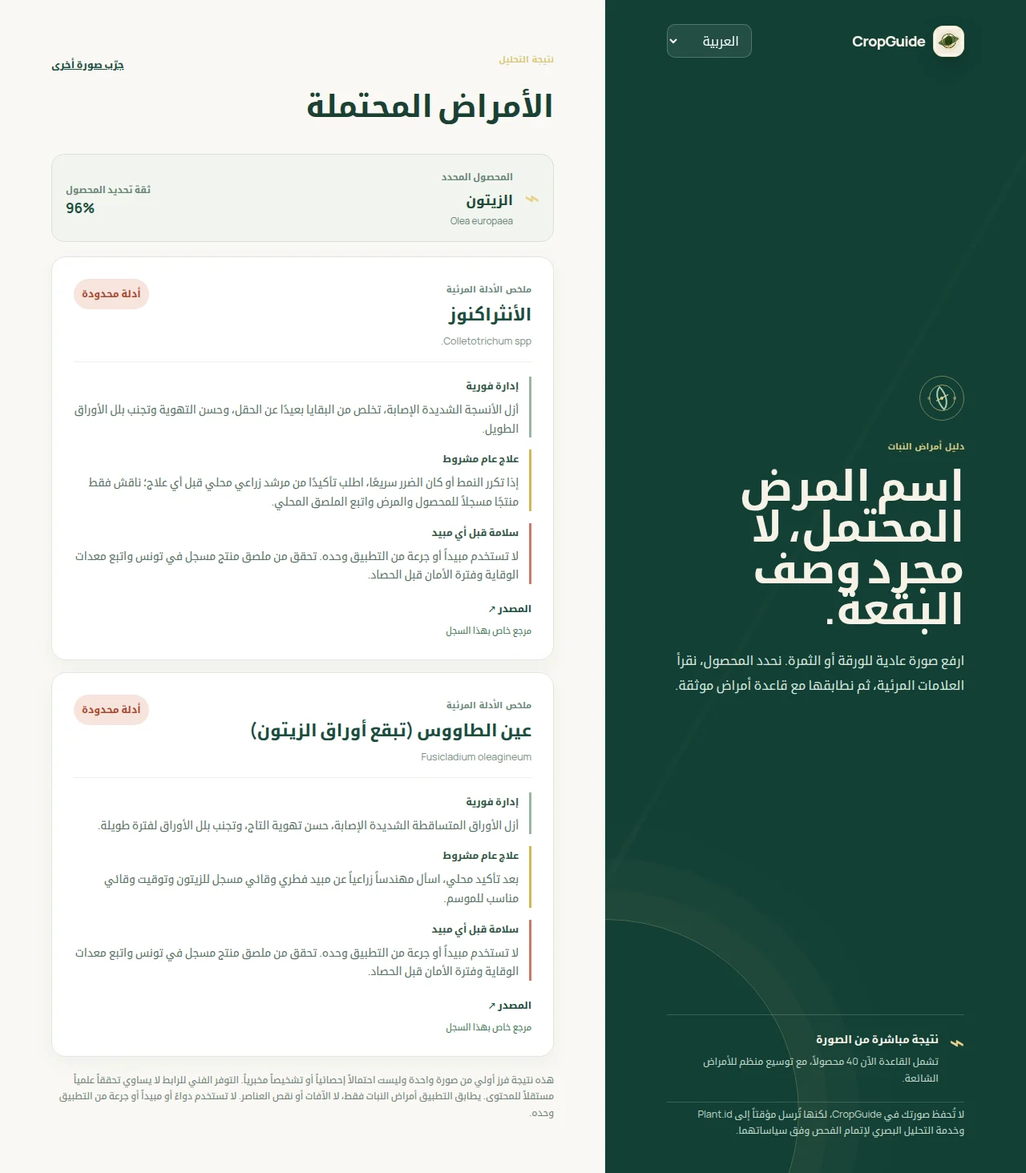
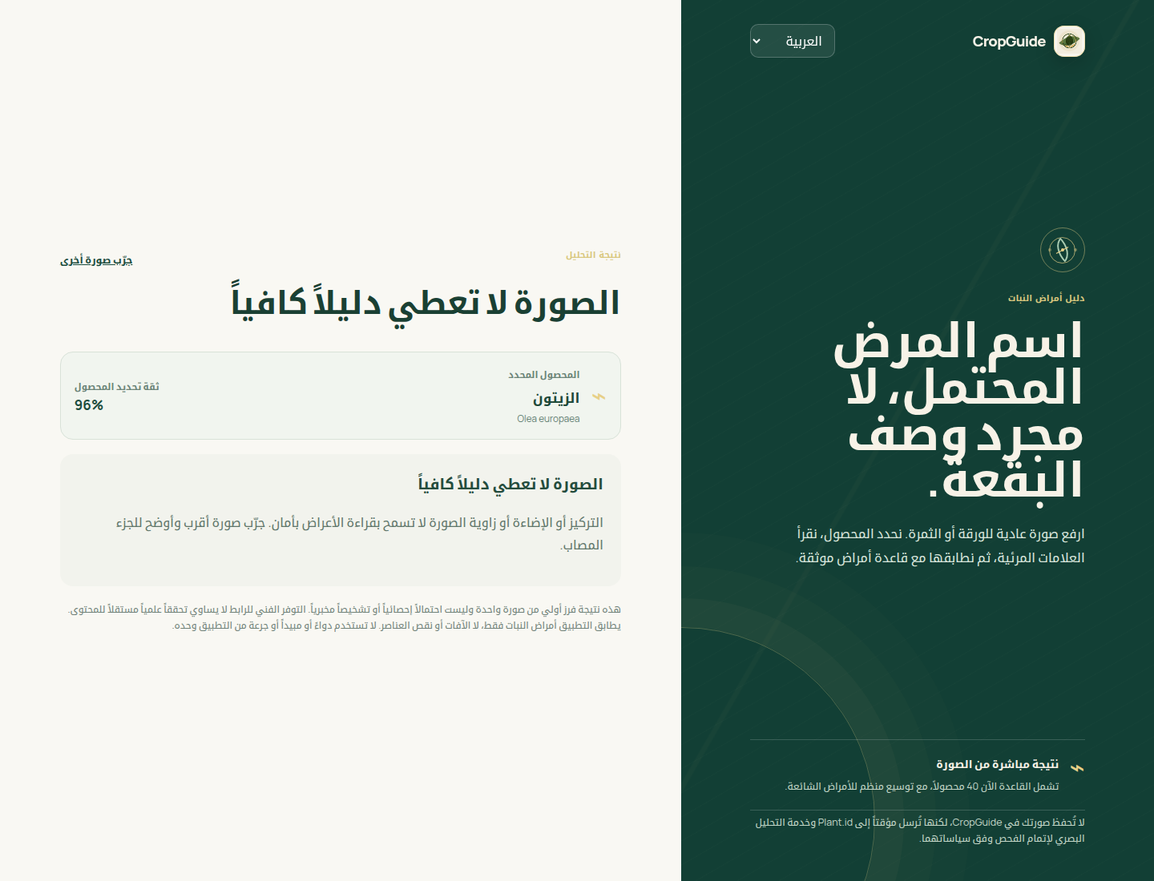
Release 0.6

diff --git a/client/src/App.jsx b/client/src/App.jsx
@@ -11,7 +11,7 @@ const copy = {
     likely: "ملخص الأدلة المرئية", evidenceBands: { strong: "أدلة متماسكة", medium: "أدلة جزئية", limited: "أدلة محدودة" }, immediate: "إدارة فورية", conditional: "علاج عام مشروط", safety: "سلامة قبل أي مبيد",
     source: "المصدر", sourceSpecific: "مرجع خاص بهذا السجل", sourceGroup: "مرجع لمجموعة المحصول، وليس مرجعاً خاصاً بهذا السجل", disclaimer: "هذه نتيجة فرز أولي من صورة واحدة وليست احتمالاً إحصائياً أو تشخيصاً مخبرياً. التوفر الفني للرابط لا يساوي تحققاً علمياً مستقلاً للمحتوى. يطابق التطبيق أمراض النبات فقط، لا الآفات أو نقص العناصر. لا تستخدم دواءً أو مبيداً أو جرعة من التطبيق وحده.",
     none: "لم نجد تطابقاً كافياً مع الأمراض المدعومة لهذه الصورة.", noneLead: "الصورة قد لا تُظهر علامة مميزة كفاية. جرّب ورقة أو ثمرة مصابة بوضوح أكبر.",
-    unsupported: "المحصول غير مدعوم حالياً", unsupportedLead: "يدعم CropGuide حالياً 40 محصولاً. حاول صورة أوضح للمحصول نفسه.", cropUncertain: "تعذر تحديد المحصول بأمان", cropUncertainLead: "اقتراحات المحصول متقاربة أو ضعيفة، لذلك لم نرتب الأمراض. التقط صورة أوضح للنبات أو للورقة مع جزء من الساق.",
+    unsupported: "المحصول غير مدعوم حالياً", unsupportedLead: "يدعم CropGuide حالياً 40 محصولاً. حاول صورة أوضح للمحصول نفسه.", cropUncertain: "تعذر تحديد المحصول بأمان", cropUncertainLead: "اقتراحات المحصول متقاربة أو ضعيفة، لذلك لم نرتب الأمراض. التقط صورة أوضح للنبات أو للورقة مع جزء من الساق.", imageInvalid: "الصورة لا تصلح للفحص الآمن", imageInvalidLead: "لم تظهر ورقة أو ثمرة واحدة بأعراض واضحة. استخدم صورة لنبات واحد فقط، بلا عناصر غير مرتبطة.", noClearSymptoms: "لا تظهر أعراض واضحة", noClearSymptomsLead: "قد تبدو الورقة سليمة أو لا تحمل علامة مرئية كافية. لا نرتب الأمراض في هذه الحالة.", imageLimited: "الصورة لا تعطي دليلاً كافياً", imageLimitedLead: "التركيز أو الإضاءة أو زاوية الصورة لا تسمح بقراءة الأعراض بأمان. جرّب صورة أقرب وأوضح للجزء المصاب.",
     retry: "جرّب صورة أخرى", error: "تعذر إكمال التحليل", cropConfidence: "ثقة تحديد المحصول", stepCrop: "تحديد المحصول", stepSymptoms: "قراءة العلامات", stepMatch: "مطابقة المرض",
     quality: "جودة الصورة", adequate: "مناسبة", limited: "محدودة", evidence: "الدليل المرئي",
   },
@@ -25,7 +25,7 @@ const copy = {
     likely: "Résumé des éléments visibles", evidenceBands: { strong: "Éléments cohérents", medium: "Éléments partiels", limited: "Éléments limités" }, immediate: "Gestion immédiate", conditional: "Traitement général conditionnel", safety: "Sécurité avant tout pesticide",
     source: "Source", sourceSpecific: "Référence propre à cette fiche", sourceGroup: "Référence du groupe de cultures, non propre à cette fiche", disclaimer: "Ceci est un tri initial depuis une image, et non une probabilité statistique ou un diagnostic de laboratoire. La disponibilité technique d’un lien ne prouve pas son examen scientifique indépendant. L’application rapproche les maladies végétales, pas les ravageurs ni les carences. Ne choisissez ni pesticide ni dose à partir de cette application seule.",
     none: "Aucune correspondance suffisante avec les maladies prises en charge.", noneLead: "La photo ne montre peut-être pas un signe suffisamment distinctif. Essayez une feuille ou un fruit plus clairement atteint.",
-    unsupported: "Culture non prise en charge", unsupportedLead: "CropGuide prend actuellement en charge 40 cultures. Essayez une image plus nette de la même culture.", cropUncertain: "Culture non identifiée avec assez de certitude", cropUncertainLead: "Les propositions de culture sont trop proches ou faibles; les maladies ne sont donc pas classées. Prenez une photo plus nette de la plante ou de la feuille avec une partie de la tige.",
+    unsupported: "Culture non prise en charge", unsupportedLead: "CropGuide prend actuellement en charge 40 cultures. Essayez une image plus nette de la même culture.", cropUncertain: "Culture non identifiée avec assez de certitude", cropUncertainLead: "Les propositions de culture sont trop proches ou faibles; les maladies ne sont donc pas classées. Prenez une photo plus nette de la plante ou de la feuille avec une partie de la tige.", imageInvalid: "Photo non adaptée à un tri sûr", imageInvalidLead: "La photo ne montre pas clairement une seule feuille ou un seul fruit avec des signes. Utilisez une image d’un seul végétal, sans éléments non liés.", noClearSymptoms: "Aucun symptôme clair visible", noClearSymptomsLead: "La feuille peut sembler saine ou ne pas montrer un signe assez visible. Les maladies ne sont pas classées dans ce cas.", imageLimited: "La photo ne donne pas assez d’éléments", imageLimitedLead: "La mise au point, la lumière ou l’angle ne permettent pas de lire les signes en sécurité. Essayez une photo plus proche et plus nette de la zone atteinte.",
     retry: "Essayer une autre photo", error: "Impossible de terminer l’analyse", cropConfidence: "Confiance d’identification", stepCrop: "Culture", stepSymptoms: "Signes visibles", stepMatch: "Correspondance",
     quality: "Qualité de l’image", adequate: "Adéquate", limited: "Limitée", evidence: "Élément visible",
   },
@@ -39,7 +39,7 @@ const copy = {
     likely: "Visible-evidence summary", evidenceBands: { strong: "Coherent evidence", medium: "Partial evidence", limited: "Limited evidence" }, immediate: "Immediate management", conditional: "Conditional general treatment", safety: "Safety before any pesticide",
     source: "Source", sourceSpecific: "Record-specific reference", sourceGroup: "Crop-group reference, not record-specific", disclaimer: "This is candidate triage from one image, not a statistical probability or laboratory diagnosis. Technical link availability is not independent scientific verification of its content. The app matches plant diseases only, not pests or nutrient disorders. Do not select a pesticide or dose from this app alone.",
     none: "No sufficient match was found among the supported diseases.", noneLead: "The image may not show a distinctive enough sign. Try a more clearly affected leaf or fruit.",
-    unsupported: "Crop not supported yet", unsupportedLead: "CropGuide currently supports 40 crops. Try a clearer image of the same crop.", cropUncertain: "Crop could not be identified safely", cropUncertainLead: "Crop suggestions are too close or too weak, so diseases were not ranked. Take a clearer photo of the plant or leaf with part of the stem.",
+    unsupported: "Crop not supported yet", unsupportedLead: "CropGuide currently supports 40 crops. Try a clearer image of the same crop.", cropUncertain: "Crop could not be identified safely", cropUncertainLead: "Crop suggestions are too close or too weak, so diseases were not ranked. Take a clearer photo of the plant or leaf with part of the stem.", imageInvalid: "Photo not suitable for safe triage", imageInvalidLead: "The image does not clearly show one leaf or fruit with symptoms. Use a photo of one plant part only, without unrelated objects.", noClearSymptoms: "No clear symptoms are visible", noClearSymptomsLead: "The leaf may look healthy or may not show a sufficiently visible sign. Diseases are not ranked in this case.", imageLimited: "The photo does not provide enough evidence", imageLimitedLead: "Focus, lighting, or the angle does not allow safe reading of symptoms. Try a closer, sharper photo of the affected area.",
     retry: "Try another photo", error: "Analysis could not be completed", cropConfidence: "Identification confidence", stepCrop: "Crop", stepSymptoms: "Visible signs", stepMatch: "Disease match",
     quality: "Image quality", adequate: "Adequate", limited: "Limited", evidence: "Visible evidence",
   },
@@ -78,7 +78,7 @@ function evidenceBandKey(value) {
 }
 
 function CandidateCard({ disease, text, language }) {
-  const score = disease.evidenceScore ?? disease.confidence;
+  const score = disease.evidenceScore;
   const evidenceBand = evidenceBandKey(score);
   return <article className="disease-card">
     <div className="disease-heading">
@@ -109,6 +109,14 @@ export default function App() {
   const text = copy[language];
   const isBusy = phase === "preparing" || phase === "analyzing";
   const steps = useMemo(() => [text.stepCrop, text.stepSymptoms, text.stepMatch], [text]);
+  const resultState = result ? {
+    unsupported_crop: { title: text.unsupported, lead: text.unsupportedLead, showCrop: false },
+    crop_uncertain: { title: text.cropUncertain, lead: text.cropUncertainLead, showCrop: false },
+    image_invalid: { title: text.imageInvalid, lead: text.imageInvalidLead, showCrop: true },
+    no_clear_symptoms: { title: text.noClearSymptoms, lead: text.noClearSymptomsLead, showCrop: true },
+    image_limited: { title: text.imageLimited, lead: text.imageLimitedLead, showCrop: true },
+    inconclusive: { title: text.none, lead: text.noneLead, showCrop: true },
+  }[result.status] : null;
 
   async function onFileChange(event) {
     const file = event.target.files?.[0];
@@ -177,10 +185,10 @@ export default function App() {
       </>}
 
       {result && <div className="result-panel">
-        <div className="result-top"><div><p className="eyebrow">{text.result}</p><h2>{result.status === "unsupported_crop" ? text.unsupported : result.status === "crop_uncertain" ? text.cropUncertain : result.status === "inconclusive" ? text.none : text.candidates}</h2></div><button className="text-button" onClick={reset}>{text.retry}</button></div>
-        {result.status === "unsupported_crop" ? <p className="empty-copy">{text.unsupportedLead}</p> : result.status === "crop_uncertain" ? <p className="empty-copy">{text.cropUncertainLead}</p> : <>
+        <div className="result-top"><div><p className="eyebrow">{text.result}</p><h2>{resultState?.title || text.candidates}</h2></div><button className="text-button" onClick={reset}>{text.retry}</button></div>
+        {resultState && !resultState.showCrop ? <p className="empty-copy">{resultState.lead}</p> : <>
           <div className="crop-card"><div className="crop-icon">⌁</div><div><span>{text.detectedCrop}</span><strong>{result.crop.name[language]}</strong><em>{result.crop.scientificName}</em></div><div className="crop-score"><span>{text.cropConfidence}</span><strong>{Math.round((result.detectedPlant?.probability || 0) * 100)}%</strong></div></div>
-          {result.status === "inconclusive" ? <div className="empty-state"><h3>{text.none}</h3><p>{text.noneLead}</p></div> : <div className="disease-list">{result.diseases.map(disease => <CandidateCard key={disease.id} disease={disease} text={text} language={language} />)}</div>}
+          {resultState ? <div className="empty-state"><h3>{resultState.title}</h3><p>{resultState.lead}</p></div> : <div className="disease-list">{result.diseases.map(disease => <CandidateCard key={disease.id} disease={disease} text={text} language={language} />)}</div>}
           <p className="result-disclaimer">{text.disclaimer}</p>
         </>}
       </div>}

diff --git a/server/vision.js b/server/vision.js
@@ -15,6 +15,11 @@ function safeStructuredSymptoms(value, allowedSymptoms) {
   return Array.isArray(value) ? value.filter(symptom => typeof symptom === "string" && allowedSymptoms.includes(symptom)) : [];
 }
 
+function safeImageValidity(value) {
+  return ["plant_symptoms_visible", "healthy_or_no_clear_symptoms", "unrelated_or_multiple", "uncertain"].includes(value)
+    ? value : "uncertain";
+}
+
 function recoverTruncatedPayload(text, allowedSymptoms) {
   const symptomSection = text.match(/"symptoms"\s*:\s*\[([\s\S]*?)(?:\]|$)/)?.[1] || "";
   const symptoms = [...symptomSection.matchAll(/"([^"\\]+)"/g)]
@@ -24,6 +29,7 @@ function recoverTruncatedPayload(text, allowedSymptoms) {
   const confidenceText = text.match(/"symptomConfidence"\s*:\s*(-?(?:\d+(?:\.\d*)?|\.\d+))/)?.[1];
   return {
     imageQuality: quality === "adequate" ? "adequate" : "limited",
+    imageValidity: "uncertain",
     symptoms,
     symptomConfidence: boundedNumber(Number(confidenceText)),
     // Do not preserve incomplete raw model prose in a response that will reach the browser.
@@ -38,9 +44,11 @@ export function parseVisibleSymptoms(content, allowedSymptoms) {
     const parsed = JSON.parse(text);
     return {
       imageQuality: parsed.imageQuality === "adequate" ? "adequate" : "limited",
+      imageValidity: safeImageValidity(parsed.imageValidity),
       symptoms: safeStructuredSymptoms(parsed.symptoms, allowedSymptoms),
       symptomConfidence: boundedNumber(parsed.symptomConfidence),
       visibleEvidence: typeof parsed.visibleEvidence === "string" ? parsed.visibleEvidence.slice(0, 240) : "",
+      unfamiliarObservation: typeof parsed.unfamiliarObservation === "string" ? parsed.unfamiliarObservation.slice(0, 160) : "",
     };
   } catch {
     return recoverTruncatedPayload(text, allowedSymptoms);
@@ -56,11 +64,13 @@ export async function extractVisibleSymptoms({ imageDataUrl, cropName, allowedSy
     type: "object",
     properties: {
       imageQuality: { type: "string", enum: ["adequate", "limited"] },
+      imageValidity: { type: "string", enum: ["plant_symptoms_visible", "healthy_or_no_clear_symptoms", "unrelated_or_multiple", "uncertain"] },
       symptoms: { type: "array", items: { type: "string", enum: allowedSymptoms }, maxItems: 7 },
       symptomConfidence: { type: "number", minimum: 0, maximum: 1 },
       visibleEvidence: { type: "string", maxLength: 240 },
+      unfamiliarObservation: { type: "string", maxLength: 160 },
     },
-    required: ["imageQuality", "symptoms", "symptomConfidence", "visibleEvidence"],
+    required: ["imageQuality", "imageValidity", "symptoms", "symptomConfidence", "visibleEvidence", "unfamiliarObservation"],
     additionalProperties: false,
   };
 
@@ -74,12 +84,12 @@ export async function extractVisibleSymptoms({ imageDataUrl, cropName, allowedSy
       messages: [
         {
           role: "system",
-          content: "You are a cautious agricultural visual-observation extractor. Report only what is visible in the supplied image. Never name a disease, pathogen, pest, treatment, crop variety, or diagnosis. If evidence is unclear, return an empty symptoms list and limited image quality.",
+          content: "You are a cautious agricultural visual-observation extractor. Report only what is visible in the supplied image. Never name a disease, pathogen, pest, treatment, crop variety, or diagnosis. State whether this is a plant image with visible symptoms, a healthy/no-clear-symptom plant, an unrelated/multiple-subject image, or uncertain. If a visible sign has no matching code, describe it briefly in unfamiliarObservation rather than forcing a code.",
         },
         {
           role: "user",
           content: [
-            { type: "text", text: `The Plant.id crop label is ${cropName}. Select only visible symptom codes from this allowed vocabulary: ${allowedSymptoms.join(", ")}. Do not infer symptoms that are not visible.` },
+            { type: "text", text: `Plant.id tentatively suggested ${cropName}; this is not visual evidence and must not change what you observe. Select only visible symptom codes from this cross-crop vocabulary: ${allowedSymptoms.join(", ")}. Do not infer symptoms that are not visible.` },
             { type: "image_url", image_url: { url: imageDataUrl, detail: "high" } },
           ],
         },

diff --git a/server/matcher.js b/server/matcher.js
@@ -65,9 +65,7 @@ function scoreDifferentials(diseaseId, selectedFeatureIds, selectedTokens) {
 }
 
 function visualFeatureIdsForRecord(record) {
-  return new Set(filterImageExtractableTokens(decodeSymptoms(record.symptoms_json))
-    .map(token => describeObservation(token)?.canonicalFeatureId)
-    .filter(Boolean));
+  return new Set(filterImageExtractableTokens(decodeSymptoms(record.symptoms_json)));
 }
 
 function calculateDiagnosticDiscrimination(matchedFeatureIds, visualFeatureSets) {
@@ -103,23 +101,23 @@ export function rankDiseaseRecords(records, { symptoms = [], symptomConfidence =
     if (!matchedSymptoms.length) return null;
     const matchedFeatureIds = [...new Set(matchedSymptoms.map(token => describeObservation(token)?.canonicalFeatureId).filter(Boolean))];
     const coverage = matchedSymptoms.length / Math.max(1, expectedVisualSymptoms.length);
-    const diagnosticDiscrimination = calculateDiagnosticDiscrimination(matchedFeatureIds, visualFeatureSets);
+    const diagnosticDiscrimination = calculateDiagnosticDiscrimination(matchedSymptoms, visualFeatureSets);
     const evidenceSufficiency = Math.min(1, matchedSymptoms.length / MIN_MATCHES_FOR_UNCAPPED_SCORE);
     const differentials = scoreDifferentials(row.id, selectedFeatureIds, observedTokens);
     const differentialPenalty = differentials.reduce((total, rule) => total + rule.penalty, 0);
+    const differentialSupportBonus = Math.min(6, differentials.reduce((total, rule) => total + (rule.supportingCueObserved && !rule.opposingCueObserved ? 3 : 0), 0));
     let scoreCeiling = differentials.reduce((ceiling, rule) => Math.min(ceiling, rule.ceiling), 100);
     if (matchedSymptoms.length < MIN_MATCHES_FOR_UNCAPPED_SCORE) scoreCeiling = Math.min(scoreCeiling, LOW_EVIDENCE_CEILING);
     if (visualConfidence < 0.45) scoreCeiling = Math.min(scoreCeiling, LOW_VISUAL_CONFIDENCE_CEILING);
     if (cropSupport < 0.65) scoreCeiling = Math.min(scoreCeiling, 60);
 
     const rawScore = 100 * ((0.35 * visualConfidence) + (0.25 * coverage) + (0.15 * diagnosticDiscrimination) + (0.15 * cropSupport) + (0.10 * evidenceSufficiency));
-    const evidenceScore = Math.round(clamp(rawScore - differentialPenalty, 0, scoreCeiling));
+    const evidenceScore = Math.round(clamp(rawScore - differentialPenalty + differentialSupportBonus, 0, scoreCeiling));
 
     return {
       id: row.id,
       name: { ar: row.name_ar, fr: row.name_fr, en: row.name_en },
       scientificName: row.scientific_name,
-      confidence: evidenceScore,
       evidenceScore,
       matchedSymptoms,
       evidence: {
@@ -133,6 +131,7 @@ export function rankDiseaseRecords(records, { symptoms = [], symptomConfidence =
         cropSupport,
         coverage: Number(coverage.toFixed(3)),
         diagnosticDiscrimination: Number(diagnosticDiscrimination.toFixed(3)),
+        differentialSupportBonus,
         scoreCeiling,
       },
       fieldCheck: { ar: row.field_check_ar, fr: row.field_check_fr, en: row.field_check_en },

diff --git a/server/index.js b/server/index.js
@@ -2,7 +2,7 @@ import express from "express";
 import path from "node:path";
 import { fileURLToPath } from "node:url";
 import { createServer as createViteServer } from "vite";
-import { getCrop, listCropVocabulary, matchDiseases } from "./database.js";
+import { getCrop, listVisionVocabulary, matchDiseases } from "./database.js";
 import { identifyPlant } from "./plant.js";
 import { extractVisibleSymptoms } from "./vision.js";
 
@@ -40,12 +40,21 @@ app.post("/api/analyze", async (req, res) => {
       });
     }
     const crop = getCrop(plant.cropId);
-    const allowedSymptoms = listCropVocabulary(plant.cropId);
+    const allowedSymptoms = listVisionVocabulary();
     const observation = await extractVisibleSymptoms({
       imageDataUrl,
       cropName: crop.scientificName,
       allowedSymptoms,
     });
+    if (observation.imageQuality !== "adequate" || observation.imageValidity !== "plant_symptoms_visible") {
+      const status = observation.imageValidity === "unrelated_or_multiple" ? "image_invalid"
+        : observation.imageValidity === "healthy_or_no_clear_symptoms" ? "no_clear_symptoms" : "image_limited";
+      return res.json({
+        status, crop, detectedPlant: plant.candidate, cropSelection: { support: plant.cropConfidence, margin: plant.margin }, observation, diseases: [],
+        message: "The image does not provide enough clear, single-plant symptom evidence to rank diseases safely.",
+        privacy: "The image is sent to Plant.id and the configured visual-analysis provider for this request. CropGuide does not store the image; external providers process it under their own policies.",
+      });
+    }
     const diseases = matchDiseases({
       cropId: plant.cropId,
       symptoms: observation.symptoms,
@@ -53,12 +62,12 @@ app.post("/api/analyze", async (req, res) => {
       cropConfidence: plant.cropConfidence,
     });
     return res.json({
-      status: diseases.length ? "matched" : "inconclusive",
+      status: diseases[0]?.evidenceScore >= 60 ? "matched" : "inconclusive",
       crop,
       detectedPlant: plant.candidate,
       cropSelection: { support: plant.cropConfidence, margin: plant.margin },
       observation,
-      diseases,
+      diseases: diseases[0]?.evidenceScore >= 60 ? diseases : [],
       privacy: "The image is sent to Plant.id and the configured visual-analysis provider for this request. CropGuide does not store the image; external providers process it under their own policies.",
     });
   } catch (error) {

diff --git a/server/plant.js b/server/plant.js
@@ -46,11 +46,22 @@ function candidateFrom(value) {
   return { name: value.name, probability: clampProbability(value.probability), commonNames };
 }
 
+function normalizedText(value) {
+  return String(value || "").toLowerCase().normalize("NFKD").replace(/[×]/g, "x").replace(/[^a-z0-9]+/g, " ").trim();
+}
+
+function matchesAlias(text, alias) {
+  const normalizedAlias = normalizedText(alias);
+  if (!normalizedAlias) return false;
+  const escaped = normalizedAlias.replace(/[.*+?^${}()|[\]\\]/g, "\\$&").replace(/\s+/g, "\\s+");
+  return new RegExp(`(^|\\s)${escaped}(?=\\s|$)`, "i").test(normalizedText(text));
+}
+
 export function cropFromPlantCandidate(candidate) {
   if (!candidate) return null;
-  const descriptor = [candidate.name, ...candidate.commonNames].join(" ").toLowerCase();
+  const descriptors = [candidate.name, ...candidate.commonNames];
   for (const [cropId, aliases] of Object.entries(cropAliases)) {
-    if (aliases.some(alias => descriptor.includes(alias))) return cropId;
+    if (aliases.some(alias => descriptors.some(descriptor => matchesAlias(descriptor, alias)))) return cropId;
   }
   return null;
 }
@@ -61,16 +72,20 @@ export function cropFromPlantCandidate(candidate) {
  */
 export function selectSupportedCrop(suggestions, policy = CROP_SELECTION_POLICY) {
   const byCrop = new Map();
+  const rawCandidates = [];
   for (const rawSuggestion of Array.isArray(suggestions) ? suggestions.slice(0, policy.maxSuggestionsConsidered) : []) {
     const candidate = candidateFrom(rawSuggestion);
     const cropId = cropFromPlantCandidate(candidate);
+    if (candidate) rawCandidates.push({ ...candidate, cropId });
     if (!candidate || !cropId) continue;
     const current = byCrop.get(cropId);
     if (!current || candidate.probability > current.probability) byCrop.set(cropId, { cropId, ...candidate });
   }
   const ranked = [...byCrop.values()].sort((a, b) => b.probability - a.probability || a.cropId.localeCompare(b.cropId));
   const top = ranked[0] || null;
-  const runnerUp = ranked[1] || null;
+  const runnerUp = top ? rawCandidates
+    .filter(candidate => candidate.cropId !== top.cropId)
+    .sort((a, b) => b.probability - a.probability || a.name.localeCompare(b.name))[0] || null : null;
   const margin = top && runnerUp ? top.probability - runnerUp.probability : 1;
   const cropCandidates = ranked.map(({ cropId, name, probability }) => ({ cropId, name, support: probability }));
 

diff --git a/server/vision.test.js b/server/vision.test.js
@@ -15,9 +15,11 @@ describe("parseVisibleSymptoms", () => {
 
     expect(result).toEqual({
       imageQuality: "adequate",
+      imageValidity: "uncertain",
       symptoms: ["circular_dark_spots"],
       symptomConfidence: 0.76,
       visibleEvidence: "Round dark marks are visible on the leaf.",
+      unfamiliarObservation: "",
     });
   });
 
@@ -29,9 +31,18 @@ describe("parseVisibleSymptoms", () => {
 
     expect(result).toEqual({
       imageQuality: "adequate",
+      imageValidity: "uncertain",
       symptoms: ["circular_dark_spots", "yellow_halos"],
       symptomConfidence: 0.6,
       visibleEvidence: "",
     });
+  });
+
+  it("preserves a non-diagnostic image-validity gate and unfamiliar visible sign", () => {
+    const result = parseVisibleSymptoms(JSON.stringify({
+      imageQuality: "adequate", imageValidity: "healthy_or_no_clear_symptoms", symptoms: [], symptomConfidence: 0.3,
+      visibleEvidence: "Leaf appears intact.", unfamiliarObservation: "A pale edge is visible but has no listed code.",
+    }), allowed);
+    expect(result).toMatchObject({ imageValidity: "healthy_or_no_clear_symptoms", symptoms: [], unfamiliarObservation: "A pale edge is visible but has no listed code." });
   });
 });

diff --git a/server/plant.test.js b/server/plant.test.js
@@ -39,4 +39,16 @@ describe("Plant.id crop aliases", () => {
     ]);
     expect(selection).toMatchObject({ status: "low_confidence", cropId: null, cropConfidence: 0.41 });
   });
+
+  it("does not resolve a supported crop when a stronger unsupported suggestion conflicts with it", () => {
+    const selection = selectSupportedCrop([
+      { name: "Lavandula angustifolia", probability: 0.9, details: { common_names: ["lavender"] } },
+      { name: "Olea europaea", probability: 0.6, details: { common_names: ["olive"] } },
+    ]);
+    expect(selection).toMatchObject({ status: "ambiguous", cropId: null, cropConfidence: 0.6 });
+  });
+
+  it("does not map a short alias inside an unrelated word", () => {
+    expect(cropFromPlantCandidate({ name: "Prunus persica", commonNames: ["peach"] })).not.toBe("pea");
+  });
 });

diff --git a/server/database.js b/server/database.js
@@ -22,6 +22,11 @@ export function listCropVocabulary(cropId) {
   return filterImageExtractableTokens(collectSymptomVocabulary(rows));
 }
 
+export function listVisionVocabulary() {
+  const rows = getDatabase().prepare("SELECT symptoms_json FROM diseases").all();
+  return filterImageExtractableTokens(collectSymptomVocabulary(rows));
+}
+
 export function matchDiseases({ cropId, symptoms, symptomConfidence, cropConfidence }) {
   const rows = getDatabase()
     .prepare("SELECT * FROM diseases WHERE crop_id = ?")

diff --git a/server/database.test.js b/server/database.test.js
@@ -28,7 +28,7 @@ describe("disease matcher", () => {
     expect(candidates).toHaveLength(1);
     expect(candidates).toEqual([expect.objectContaining({
       id: "olive_peacock_spot",
-      confidence: expect.any(Number),
+      evidenceScore: expect.any(Number),
       immediateCare: expect.objectContaining({ ar: expect.any(String) }),
       conditionalCare: expect.objectContaining({ ar: expect.any(String) }),
       safety: expect.objectContaining({ ar: expect.any(String) }),

diff --git a/data/audit-remediation.md b/data/audit-remediation.md
@@ -1,0 +1,24 @@
+# Audit remediation notes
+
+This note records the implementation response to the supplied forensic audit. CropGuide AI remains a **candidate-retrieval and field-triage tool**, not a plant-disease diagnostic system.
+
+## Implemented safeguards
+
+| Audit topic | Current implementation | What it does not prove |
+|---|---|---|
+| Crop identification | Alias matching uses whole tokens. A strong unsupported Plant.id suggestion is included when deciding whether the supported crop is ambiguous. | Plant.id accuracy for the user’s image. |
+| Crop-to-vision coupling | The visual model receives a cross-crop observation vocabulary. The Plant.id name is stated as tentative and not as visual evidence. | That the vision model extracts every sign correctly. |
+| Image validity | The visual response must classify the image as symptomatic plant, healthy/no clear symptoms, unrelated/multiple subject, or uncertain. Limited, healthy, unrelated, and uncertain images do not rank diseases. | Reliable image-quality calibration in field conditions. |
+| Open vocabulary | An unfamiliar visible sign may be described separately. It is not converted into an invented disease feature. | Disease retrieval for a sign absent from the ontology. |
+| Disease ranking | Exact observable tokens stay available for discrimination; shared differential signs cannot oppose themselves; positive differentiating signs add only a bounded bonus. | Clinical sensitivity, specificity, or calibrated probability. |
+| Disease abstention | A disease list is withheld unless the leading evidence score reaches the configured conservative gate. | That the numeric gate is medically optimal. |
+| API language | The legacy `confidence` alias was removed. The response uses `evidenceScore`, which is a retrieval score, not probability. | User interpretation without usability testing. |
+| Safety and sources | Generated conditional-care guidance is country-neutral and source scope is documented as record-level provenance, not support for every claim. | Product registration, label legality, or claim-by-claim evidence. |
+
+## Tests added or updated
+
+The regression suite now checks an unsupported high-confidence plant suggestion, token-safe alias matching, structured image-validity output, unfamiliar visual observations, and the non-probabilistic response field. These tests protect code behaviour only. They do not validate diagnostic performance.
+
+## Required before any diagnostic-performance claim
+
+Create an independent image set with known crop and disease labels, include healthy leaves and non-plant images, preserve field context, define acceptance metrics in advance, and have results reviewed by plant-pathology expertise. Until then, the application should retain its conservative candidate and abstention wording.

diff --git a/data/analysis-screenshot-provenance.md b/data/analysis-screenshot-provenance.md
@@ -5,7 +5,8 @@
 - **الصورة المرجعية:** `olive-peacock-spot-branch-reference.jpg`، وهي صورة عامة استخدمت فقط لاختبار واجهة التطبيق.
 - **طريقة الاستخدام:** رُفعت الصورة من شاشة CropGuide العادية، ثم استُخدم زر **حلّل الصورة** العادي.
 - **نتيجة المحصول:** زيتون (`Olea europaea`) بثقة تحديد محصول 96%.
-- **نتيجة المطابقة:** ظهر `olive_anthracnose` أولاً، ثم `olive_peacock_spot`. صنف التطبيق المرشحين في نطاق **أدلة محدودة**.
-- **مهم:** نطاق الدليل ليس احتمال مرض ولا تشخيصاً مؤكداً. هذه النتيجة تبيّن أن الصورة لم تعطِ علامة فارقة كافية بين المرشحين.
+- **نتيجة المطابقة:** أعاد التطبيق حالة `image_limited` ولم يرتب أمراضاً.
+- **النص المعروض:** «الصورة لا تعطي دليلاً كافياً». يوضح أن التركيز أو الإضاءة أو الزاوية لم تسمح بقراءة العلامات بأمان.
+- **مهم:** هذه ليست نتيجة سلبية عن وجود المرض في الواقع، وليست تشخيصاً مؤكداً. هي امتناع آمن لأن الصورة لم تعطِ دليلاً بصرياً كافياً لترتيب الأمراض.
 
 الصورة تستعمل فقط لشرح مسار التطبيق في README. تبقى رسالة الواجهة واضحة: نتيجة الصورة ليست تشخيصاً نهائياً، وتوفر رابط المصدر لا يساوي تحققاً علمياً مستقلاً للمعلومة.

diff --git a/README.md b/README.md
@@ -1,16 +1,15 @@
 # CropGuide AI
 
-## Version 0.5
+## Version 0.6
 
-This release improves how the app ranks diseases and shows results.
+This release improves how the app handles poor images and unknown signs.
 
 ## What is new
 
-- Improved how the app calculates evidence for each disease.
-- Added descriptive ranges for visual signs (instead of just numbers).
-- Improved logic for missing signs that distinguish between diseases.
-- Added validation notes about project tests.
-- Improved matching rules for better result ranking.
+- Added checks to skip ranking for poor, healthy, or non-plant images.
+- Added support for recording unknown visual signs.
+- Added an audit remediation file to track assessment fixes.
+- Improved logic for missing or internal signs.
 
 ## Run it
 
